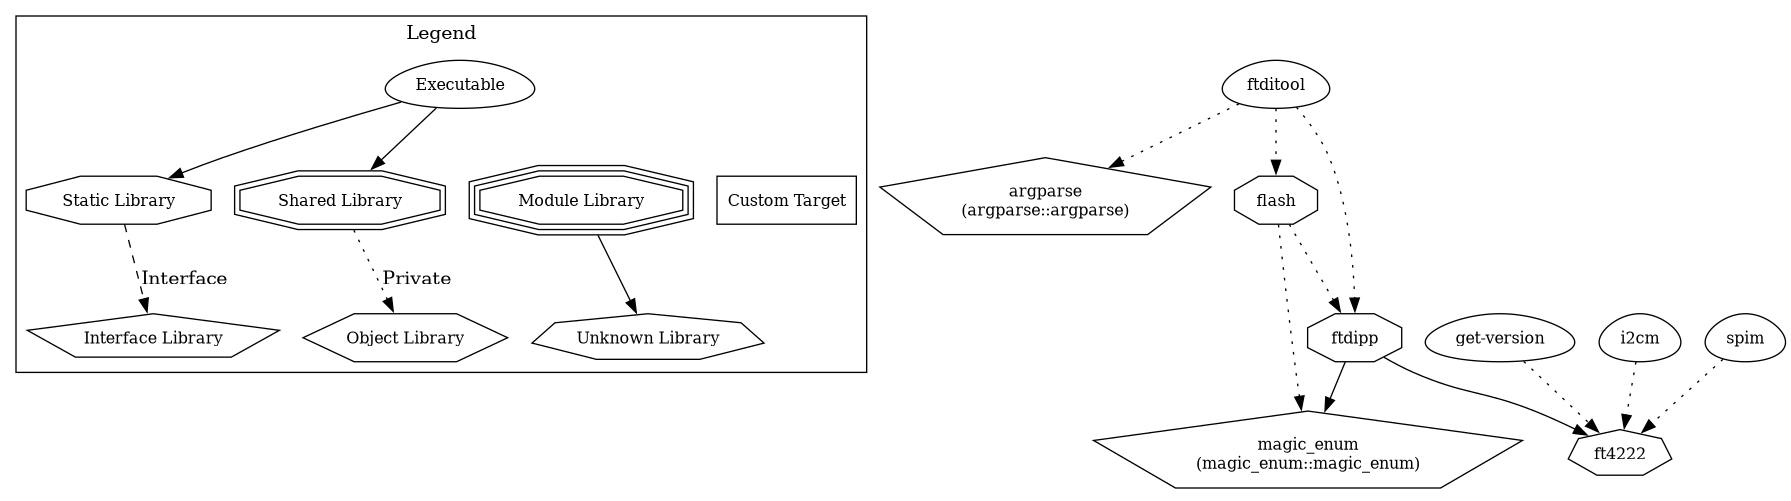
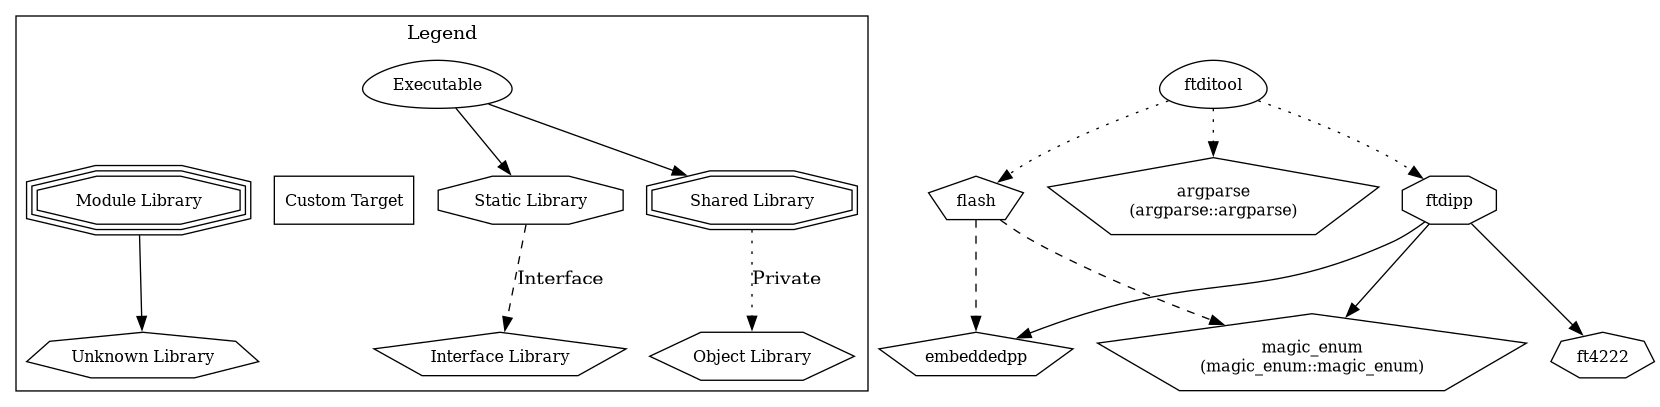
Update dependency graph

diff --git a/doc/development.md b/doc/development.md
@@ -2,6 +2,9 @@
 
 ## Generating dependency graph
 ```sh
+nix shell nixpkgs#graphviz-nox
+```
+```sh
 cmake --graphviz=./build/deps.dot ./build
 dot -Tpng ./build/deps.dot -o ./doc/img/deps.png
 ```
